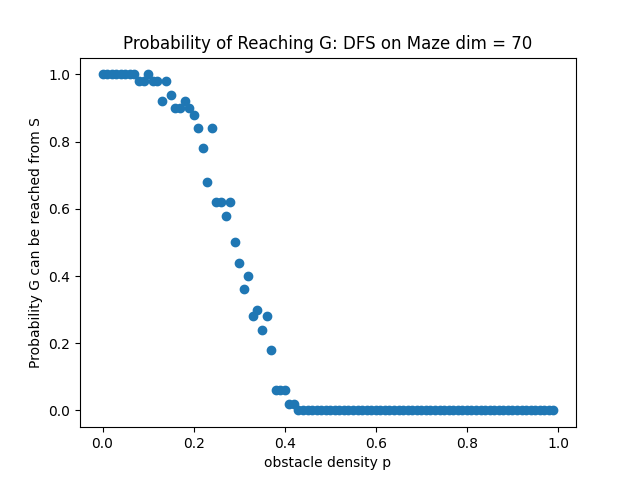
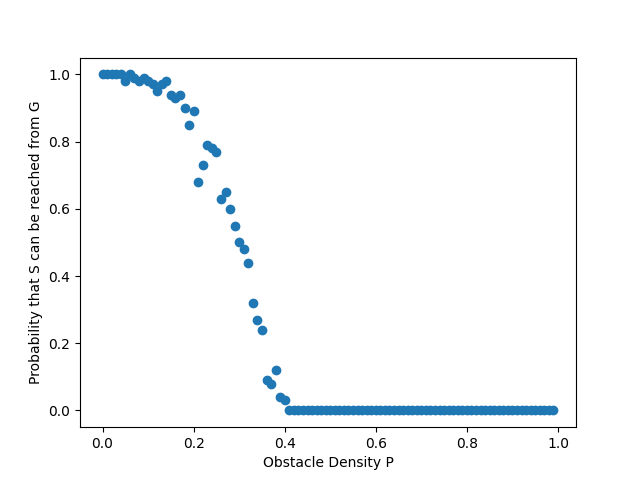
problem 6 graph

diff --git a/FireMaze_p1/driver.py b/FireMaze_p1/driver.py
@@ -15,7 +15,7 @@ def problem1(dim, p, q):
 def problem2():
     X = []
     Y = []
-    dim = 70
+    dim = 100
     times = 100
     i = 0
     #get success for obstacle density (0,1) with .01 step
@@ -144,4 +144,4 @@ def problem_6():
     ax.grid(True)
     plt.show()
 
-problem_6()
+problem2()
